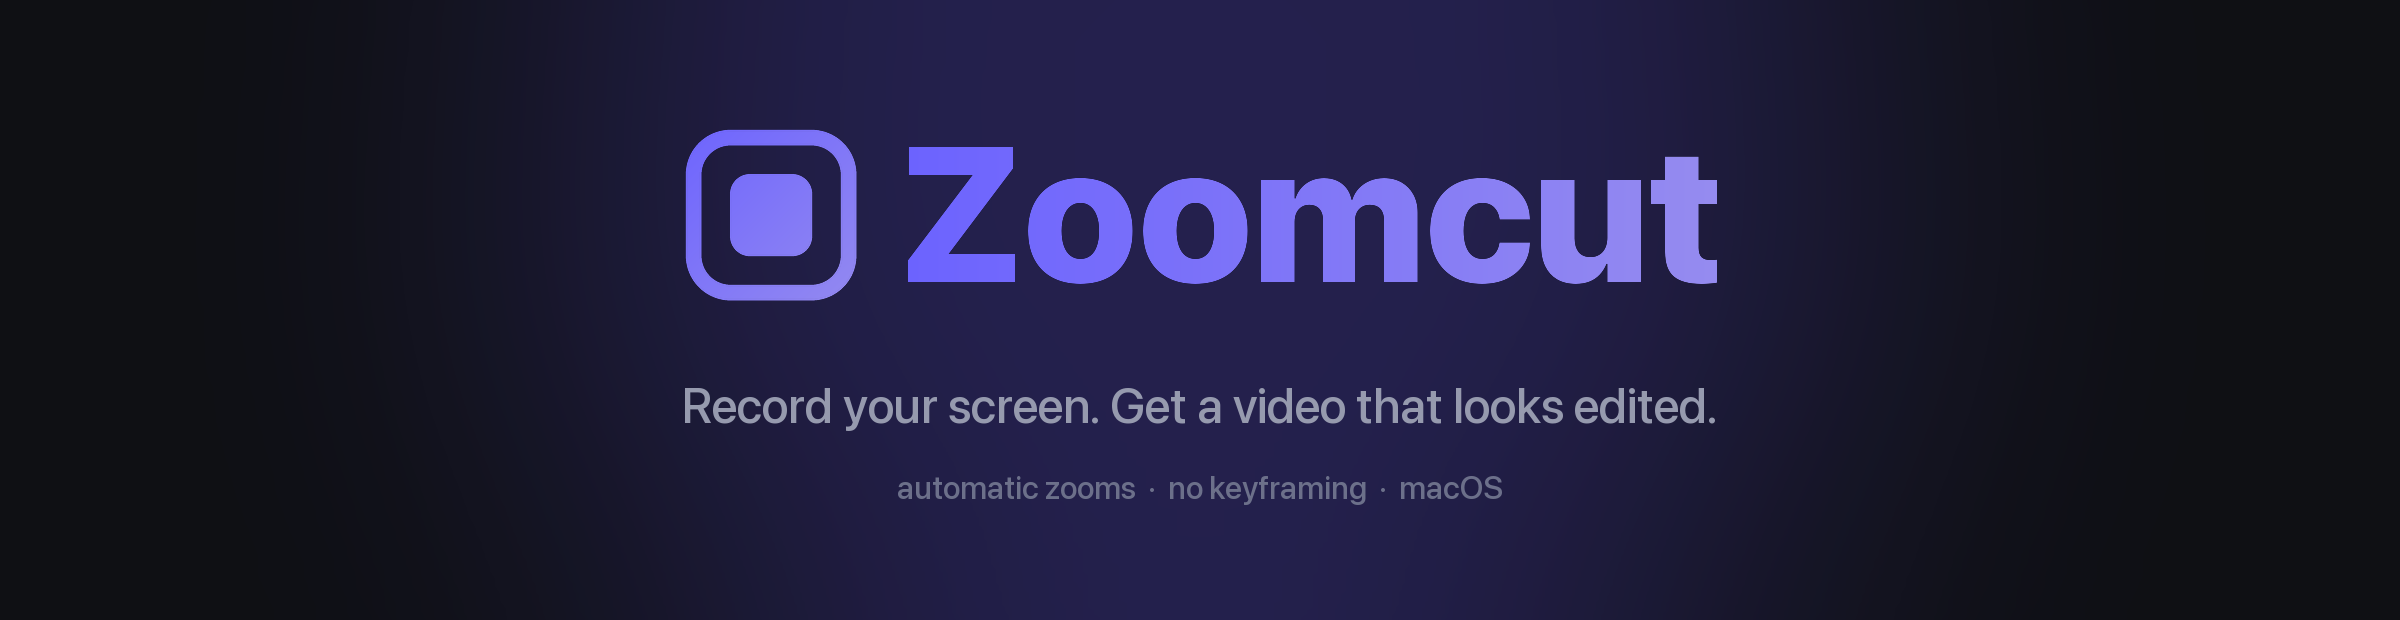
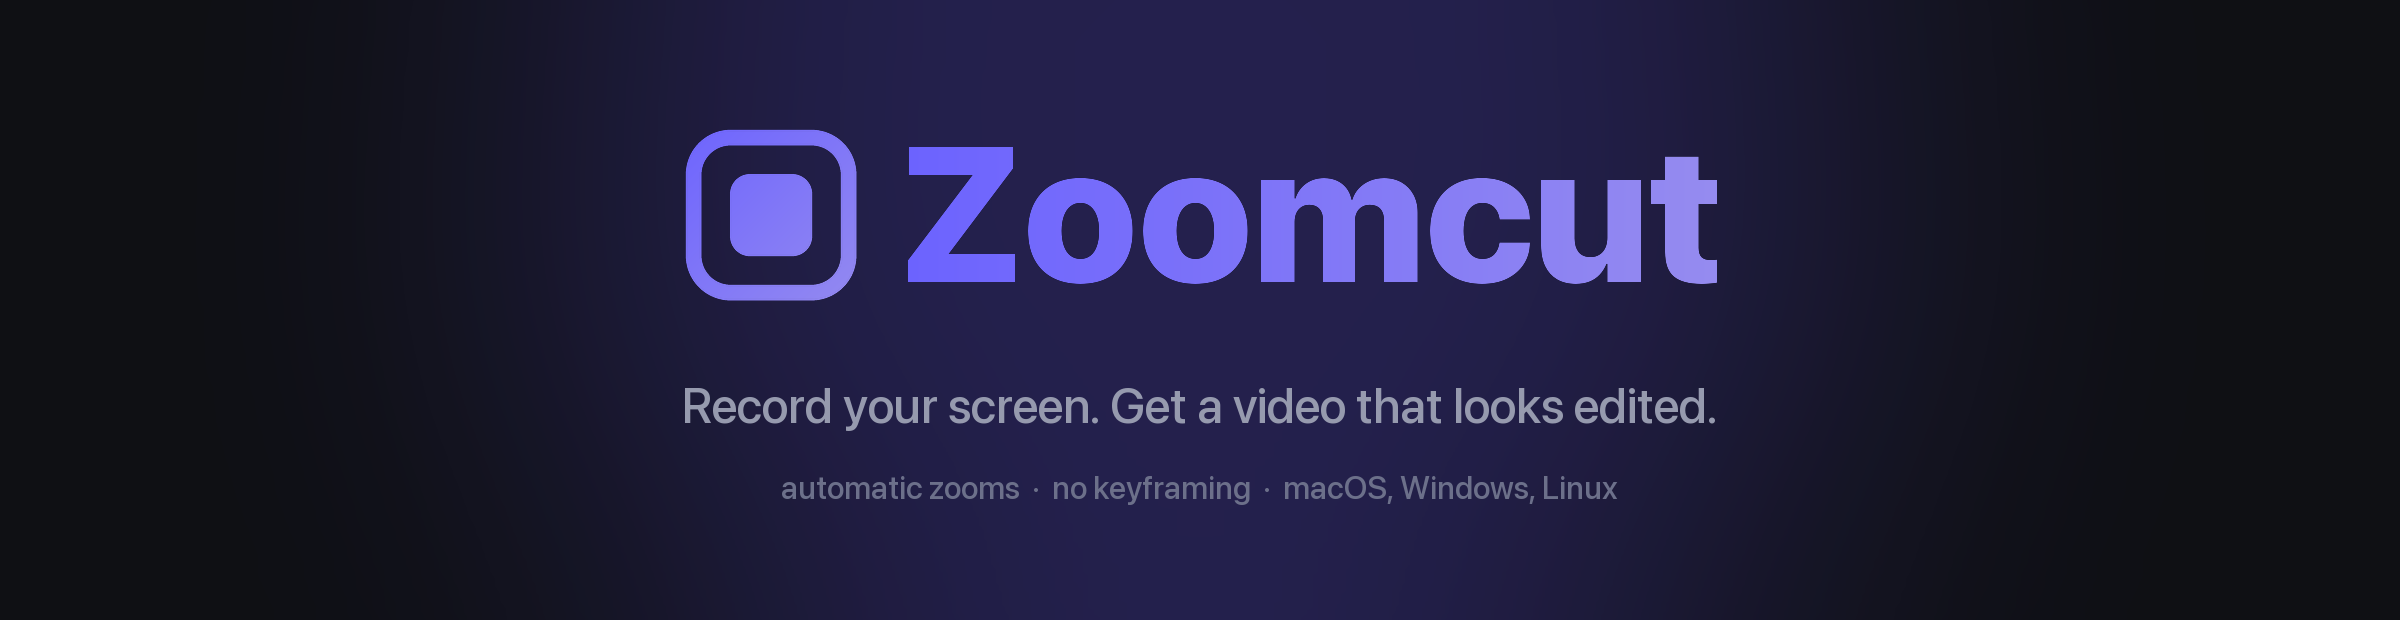
Stop the branding saying macOS only
The banner image carried 'automatic zooms · no keyframing · macOS', baked
in by tools/make_brand.py and therefore still claiming a macOS-only tool
two releases after Windows and Linux landed. It now reads 'macOS, Windows,
Linux'.

The platforms badge listed all three but wore an Apple logo, which reads
as macOS at a glance; it is now a plain platforms badge. A few remaining
'on this Mac' strings in the CLI, the project defaults and the tests are
now platform-neutral.

Changed region(s): [[0.3125, 0.7661, 0.6875, 0.8274]]

diff --git a/tests/test_all.py b/tests/test_all.py
@@ -227,7 +227,7 @@ ws = wallpapers.discover()
 if QUICK or not ws:
     skip("wallpaper checks", "no desktop pictures available" if not ws else "--quick")
 else:
-    check("wallpapers found on this Mac", len(ws) > 0, str(len(ws)))
+    check("wallpapers found on this machine", len(ws) > 0, str(len(ws)))
     check("a default wallpaper is chosen", bool(wallpapers.default_name()))
     p = wallpapers.materialise(wallpapers.default_name())
     check("default wallpaper decodes to a PNG", os.path.isfile(p) and os.path.getsize(p) > 1000)

diff --git a/tools/make_brand.py b/tools/make_brand.py
@@ -105,7 +105,7 @@ def banner(w=2400, h=620) -> Image.Image:
     tw = d.textbbox((0, 0), tag, font=tf)
     d.text(((w - (tw[2] - tw[0])) // 2, int(h * 0.605)), tag, font=tf, fill=DIM)
 
-    sub = "automatic zooms  ·  no keyframing  ·  macOS"
+    sub = "automatic zooms  ·  no keyframing  ·  macOS, Windows, Linux"
     sf = font(int(h * 0.053), "Medium")
     sw = d.textbbox((0, 0), sub, font=sf)
     d.text(((w - (sw[2] - sw[0])) // 2, int(h * 0.755)), sub, font=sf, fill=(108, 112, 138))

diff --git a/zoomcut/project.py b/zoomcut/project.py
@@ -21,7 +21,7 @@ PRESETS = {
 DEFAULT_STYLE = {
     "background": {
         "type": "wallpaper",          # wallpaper | image | gradient | color
-        "name": None,                 # wallpaper name; None -> this Mac's default
+        "name": None,                 # wallpaper name; None -> the desktop default
         "path": None,                 # for type=image
         "gradient": {"from": "#3F37C9", "to": "#8C87DF",
                      "p0": [0.0, 0.0], "p1": [1.0, 1.0]},

diff --git a/zoomcut/cli.py b/zoomcut/cli.py
@@ -79,7 +79,7 @@ def _progress(label: str):
 def cmd_wallpapers(a):
     for w in wallpapers.discover():
         print(f"  {'*' if w['ready'] else ' '} {w['name']:<32} {w['kind']}")
-    print(f"\ndefault on this Mac: {wallpapers.default_name()}")
+    print(f"\ndefault on this machine: {wallpapers.default_name()}")
     return 0
 
 

diff --git a/README.md b/README.md
@@ -10,7 +10,7 @@ shadow, the camera pushes in where it matters and **holds perfectly still where 
 
 [![tests](https://github.com/ahmedawachi/zoomcut/actions/workflows/tests.yml/badge.svg)](https://github.com/ahmedawachi/zoomcut/actions/workflows/tests.yml)
 [![release](https://img.shields.io/github/v/release/ahmedawachi/zoomcut?color=6c63ff&label=release)](https://github.com/ahmedawachi/zoomcut/releases/latest)
-[![platforms](https://img.shields.io/badge/macOS%20·%20Windows%20·%20Linux-000?logo=apple&logoColor=white)](#requirements)
+[![platforms](https://img.shields.io/badge/platforms-macOS%20%7C%20Windows%20%7C%20Linux-6c63ff)](#requirements)
 [![python](https://img.shields.io/badge/python-3.10%2B-3776AB?logo=python&logoColor=white)](#requirements)
 [![license](https://img.shields.io/badge/license-MIT-6c63ff)](LICENSE)
 
